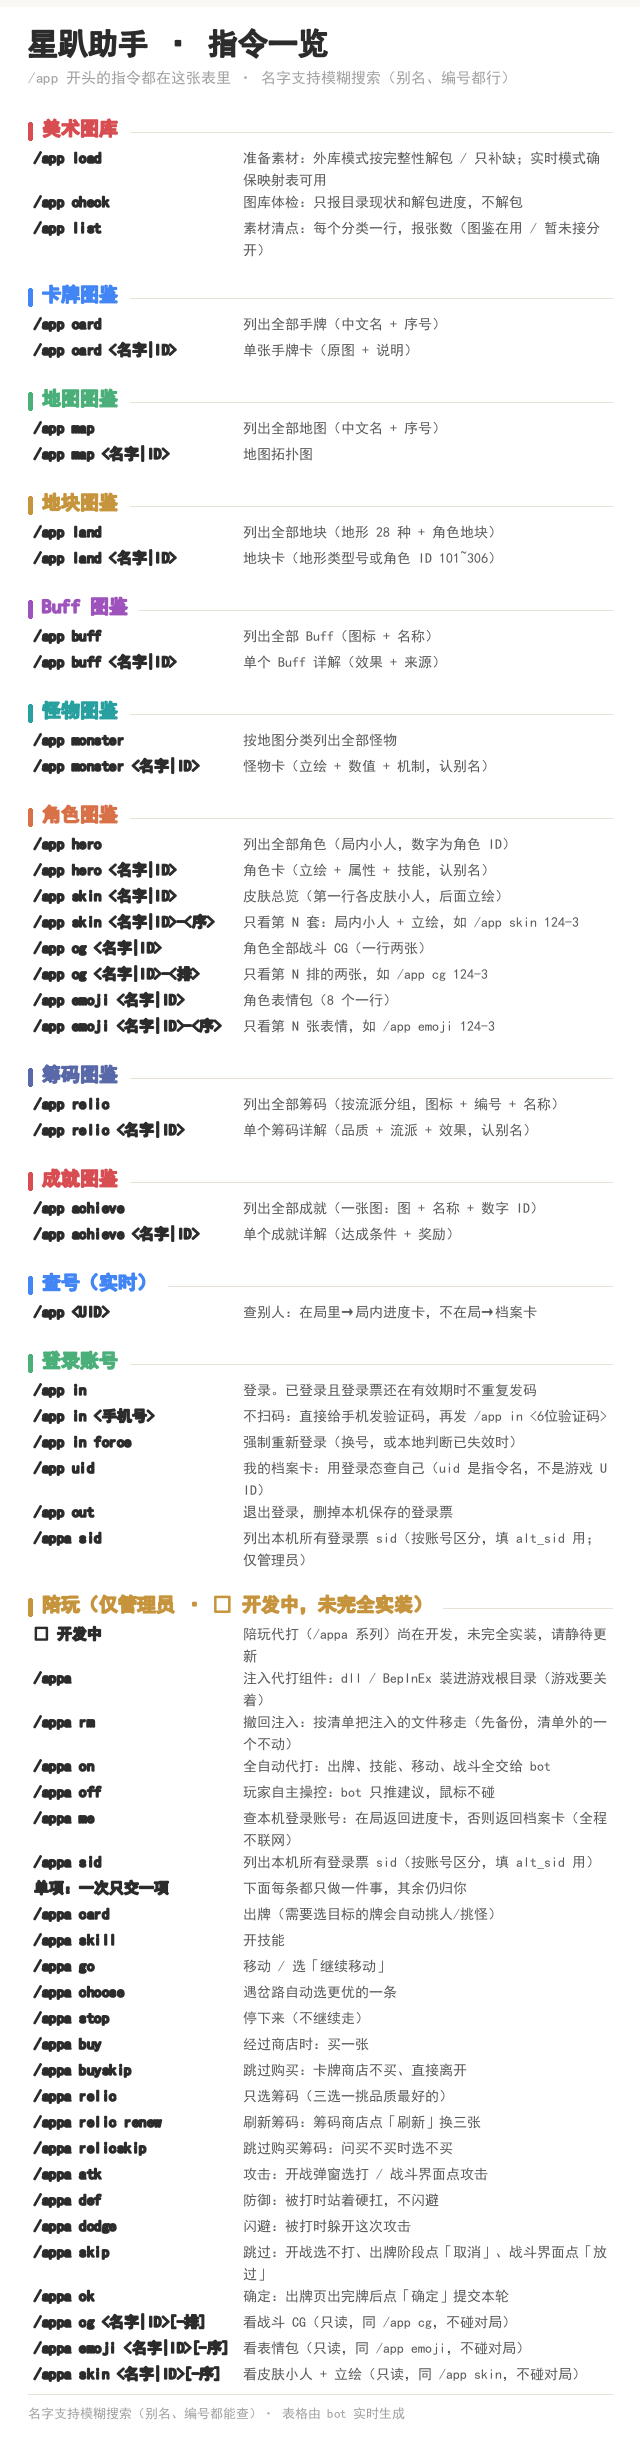
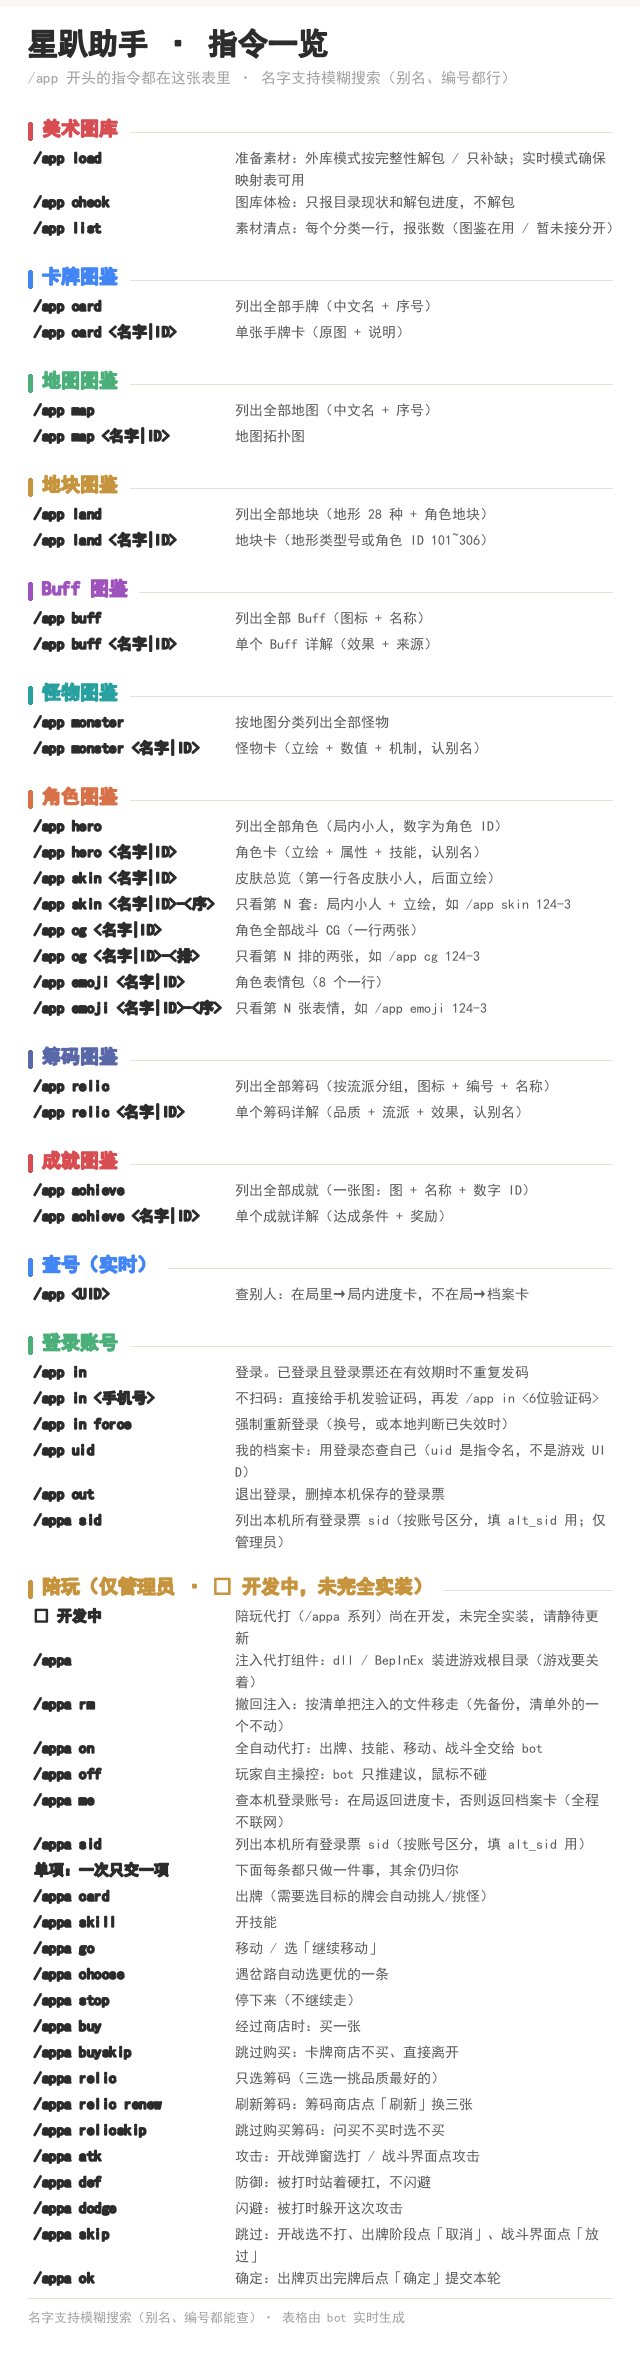
revert: 去掉 /appa cg·emoji·skin 三个图鉴别名（看图统一走 /app）；2.4.7

diff --git a/main.py b/main.py
@@ -167,9 +167,6 @@ HELP_SECTIONS = [
         ("/appa dodge", "闪避：被打时躲开这次攻击"),
         ("/appa skip", "跳过：开战选不打、出牌阶段点「取消」、战斗界面点「放过」"),
         ("/appa ok", "确定：出牌页出完牌后点「确定」提交本轮"),
-        ("/appa cg <名字|ID>[-排]", "看战斗 CG（只读，同 /app cg，不碰对局）"),
-        ("/appa emoji <名字|ID>[-序]", "看表情包（只读，同 /app emoji，不碰对局）"),
-        ("/appa skin <名字|ID>[-序]", "看皮肤小人 + 立绘（只读，同 /app skin，不碰对局）"),
     ]),
 ]
 
@@ -222,7 +219,7 @@ _ACT_WAIT = {
     "buyskip": 15.0, "relicskip": 15.0, "ok": 15.0, "relicrenew": 15.0,
 }
 
-# /app cg 124-3、/app emoji 124-3：角色 +「-序号」
+# /app cg / skin / emoji 的 124-3：角色 +「-序号」，只对 /app 生效
 _CG_ROW_RE = re.compile(r"^(?P<hero>.+?)[-—–](?P<row>\d{1,2})$")
 
 def _clip(text: str, limit: int) -> str:
@@ -1810,27 +1807,12 @@ class AstralPartyPilotPlugin(Star):
                 yield result
             return
 
-        # 图鉴类（只读）：/appa cg 124-3 和 /app cg 124-3 同一套，出图不碰游戏
-        if sub in ("cg", "bust", "战斗cg"):
-            async for result in self._app_hero_cg(event, joined):
-                yield result
-            return
-        if sub in ("emoji", "emote", "表情", "表情包"):
-            async for result in self._app_hero_emoji(event, joined):
-                yield result
-            return
-        if sub in ("skin", "skins", "皮肤"):
-            async for result in self._app_hero_skins(event, joined):
-                yield result
-            return
-
         act = PILOT_ACT_ALIAS.get(sub)
         if not act:
             yield event.plain_result(
                 f"「{sub}」不是 /appa 的子命令呢～可用的有：\n"
                 "· 开关：on（全自动）· off（自主操控）· me（查本机）· sid（登录票）\n"
                 "· 单项：card / skill / go / choose / stop / relic / buy / buyskip / relicskip / atk / def / dodge / skip / ok\n"
-                "· 图鉴：cg <名字|ID>[-排]（同 /app cg，只出图）\n"
                 "· 不带参数：把代打组件注入游戏根目录（游戏要关着）\n"
                 "· rm：按注入清单撤回注入的文件（先备份，清单外的不动）\n"
                 "完整说明发 /app help 看「陪玩」那一节")

diff --git a/README.md b/README.md
@@ -54,11 +54,11 @@
 | `/app hero`             | 全角色图鉴                                                          |
 | `/app hero <名字\|ID>`    | 角色简介卡（立绘 + 属性 + 技能，支持别名与模糊匹配）                                  |
 | `/app skin <名字\|ID>`    | 角色皮肤一览                                                         |
-| `/app skin <名字\|ID>-<序>` | 只看第 N 套皮肤：局内小人 + 立绘，如 `/app skin 124-3`（`/appa skin` 同效）  |
+| `/app skin <名字\|ID>-<序>` | 只看第 N 套皮肤：局内小人 + 立绘，如 `/app skin 124-3`|
 | `/app cg <名字\|ID>`      | 角色战斗 CG                                                        |
-| `/app cg <名字\|ID>-<排>`   | 只看第 N 排的两张 CG，如 `/app cg 124-3`（`/appa cg` 同效）                  |
+| `/app cg <名字\|ID>-<排>`   | 只看第 N 排的两张 CG，如 `/app cg 124-3`|
 | `/app emoji <名字\|ID>`   | 角色表情包                                                          |
-| `/app emoji <名字\|ID>-<序>` | 只看第 N 张表情，如 `/app emoji 124-3`（`/appa emoji` 同效）              |
+| `/app emoji <名字\|ID>-<序>` | 只看第 N 张表情，如 `/app emoji 124-3`|
 | `/app relic`            | 全筹码图鉴（按流派分组）                                                   |
 | `/app relic <名字\|ID>`   | 单筹码详情（品质 + 流派 + 效果说明，认别名）                                      |
 | `/app achieve`          | 全成就图鉴                                                          |
@@ -89,7 +89,6 @@
 | `/appa dodge`           | 闪避：被打时躲开这次攻击 |
 | `/appa skip`            | 跳过：开战选不打、出牌阶段点「取消」、战斗界面点「放过」 |
 | `/appa ok`              | 确定：出牌页出完牌后点「确定」提交本轮 |
-| `/appa cg / emoji / skin <名字\|ID>[-序]` | 只看图：战斗 CG 的一排 / 第 N 张表情 / 第 N 套皮肤（局内小人 + 立绘），只读不碰对局 |
 
 > 每个子命令都是独占的：只执行这一次，方便单项调试；
 > 进程在跑时切授权**不用重启**，下一帧就换挡。

diff --git a/CHANGELOG.md b/CHANGELOG.md
@@ -6,29 +6,35 @@
 > 约定：`## [版本] - 日期` 一节对应 `metadata.yaml` 里的 `version`，发版时先改版本号再写这一节。
 > 分类固定用 **新增 / 变更 / 修复 / 移除**，每条一句话说清「改了什么、对用户有什么影响」。
 
+## [2.4.7] - 2026-11-12
+
+### 变更
+
+- 移除 `/appa cg` / `/appa emoji` / `/appa skin` 三个图鉴只读别名：看图统一走 `/app cg|skin|emoji`，`/appa` 只负责代打动作。
+
 ## [2.4.6] - 2026-11-12
 
 ### 新增
 
-- `/app skin <角色>-<序>`：只看第 N 套皮肤，先发**局内小人**再发**皮肤立绘**（如 `/app skin 124-3`），越界会提示总套数；`/appa skin` 同效，只读不出手。
+- `/app skin <角色>-<序>`：只看第 N 套皮肤，先发**局内小人**再发**皮肤立绘**（如 `/app skin 124-3`），越界会提示总套数。
 
 ## [2.4.5] - 2026-11-12
 
 ### 新增
 
-- `/app emoji <角色>-<序>`：只发第 N 张表情（按表情包顺序，如 `/app emoji 124-3` 出第 3 张），越界会提示总张数；`/appa emoji` 同效，只读不出手。
+- `/app emoji <角色>-<序>`：只发第 N 张表情（按表情包顺序，如 `/app emoji 124-3` 出第 3 张），越界会提示总张数。
 
 ## [2.4.4] - 2026-11-12
 
 ### 新增
 
-- `/app cg <角色>-<排>`：按 CG 顺序每 2 张一排，只返回第 N 排的两张原图（如 `/app cg 124-4` 出踏秋寻芳那排）；`/appa cg` 同效，只读不出手。
+- `/app cg <角色>-<排>`：按 CG 顺序每 2 张一排，只返回第 N 排的两张原图（如 `/app cg 124-4` 出踏秋寻芳那排）。
 - 角色别名：**117 绿色小偷**；**130 苍鲤 / 大雷 / 姑姑**（角色别名共 62 个）。
 
 ### 变更
 
 - 补齐 `/appa buyskip`、`/appa relicskip`、`/appa relic renew`、`/appa ok` 四个单项动作（此前已在工作区实现，本版随包发布）。
-- `/app help` 补 `/appa cg` 与「地形 28 种」，并重渲 `docs/help.png`。
+- `/app help` 补「地形 28 种」，并重渲 `docs/help.png`。
 
 ### 修复
 
